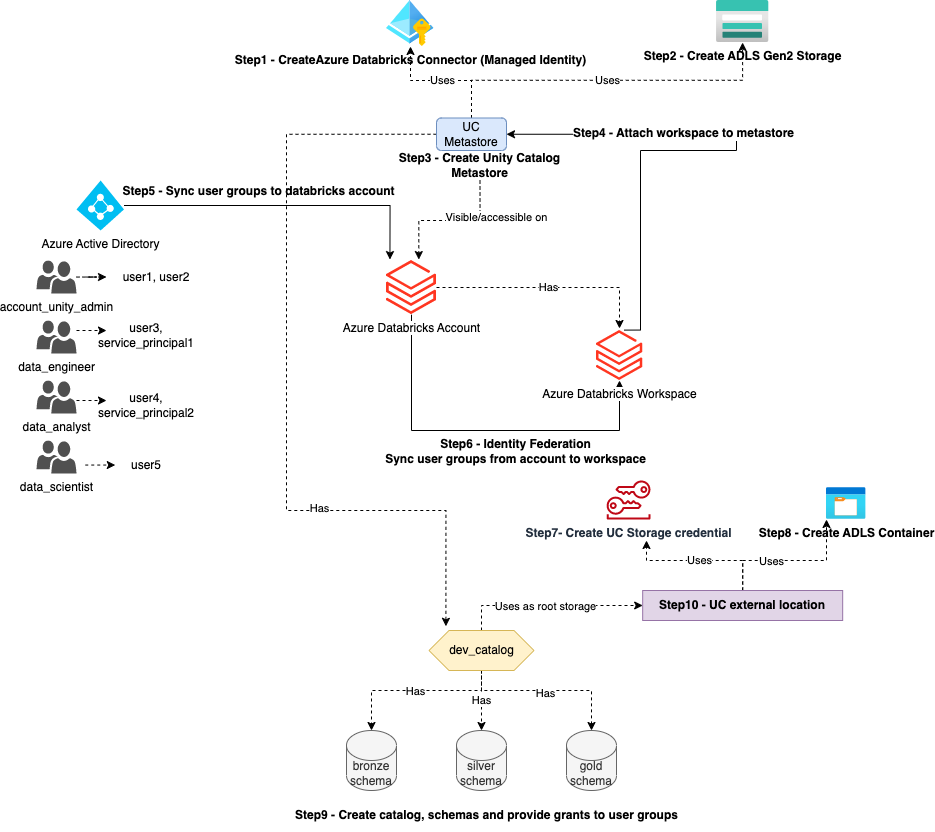
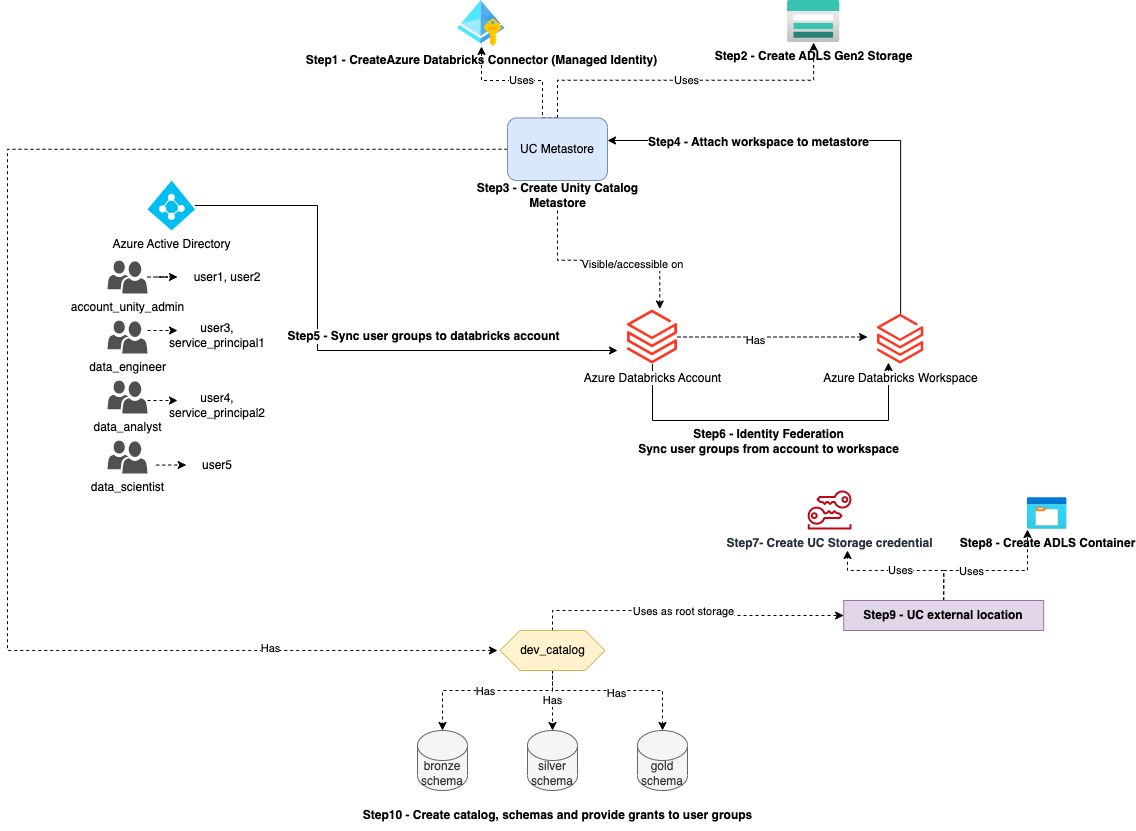
update readme

Changed region(s): [[0.0, 0.0, 0.8995, 0.6017], [0.3102, 0.5114, 1.0, 0.9928], [0.3102, 0.6017, 0.3722, 0.6318]]

diff --git a/examples/adb-unity-catalog-basic-demo/readme.md b/examples/adb-unity-catalog-basic-demo/readme.md
@@ -5,7 +5,33 @@ This Terraform project is deploying all the resources needed to properly setup u
 ![UC Image](uc.png)
 
 
+- Step1: Deploy Azure databricks managed identity connector to be used by the metastore to access its root storage.
+- Step2: Deploy ADLS Gen2 storage account to be used by the metastore as root storage.
+- Step3: Deploy the unity catalog metastore.
+- Step4: Attached the existing databricks workspace to metastore to enable unity catalog for the workspace.
+- Step5: Sync AAD groups to Databricks account. For this steps groups (and their member users, service principals) should have already been created beforehand in AAD.
+  - Note that in our example `account_unity_admin` group becomes the metastore admin and owner of all unity catalog objects (catalog, storage cred, external location and schemas).
+  - `account_unity_admin` also becomes Databricks account admin.
+  - Therefore the user or principal running this example template should be a member of `account_unity_admin` group to successfully deploy all resources.
+- Step6: Sync user groups from account to workspace, this is also called identity federation.
+- Step7: Deploy a storage credential (encapsulating managed idenity created in step1) to be used to create an external location.
+- Step8: Create a separate storage container to be used by `dev_catalog` as root storage for its managed tables.
+- Step9: Deploy an external location pointing to the container in step8.
+- Step10: Deploy dev_catalog for dev environment , 3 schemas (for bronze,silver and gold layers) and grant different groups differnt set of permissions on catalog and schemas.
+
+
 ## Run the following terraform commands to deploy (in the order)
+
+Before running the terraform commands, replace the following placeholders in `terraform.tfvars` file with real values:
+- databricks-account-id
+- subscription-id
+- resource-group-name
+- workspace-name
+
+And you might have different AAD group names than the ones used in this example. Therefore please also change value for `aad_groups` variable in `terraform.tfvars` file.  
+
+And now you can run the following terraform command to deploy unity catalog setup:
+
 1. `terraform init`
 2. `terraform validate`
 3. `terraform apply -target=module.metastore_and_users`
